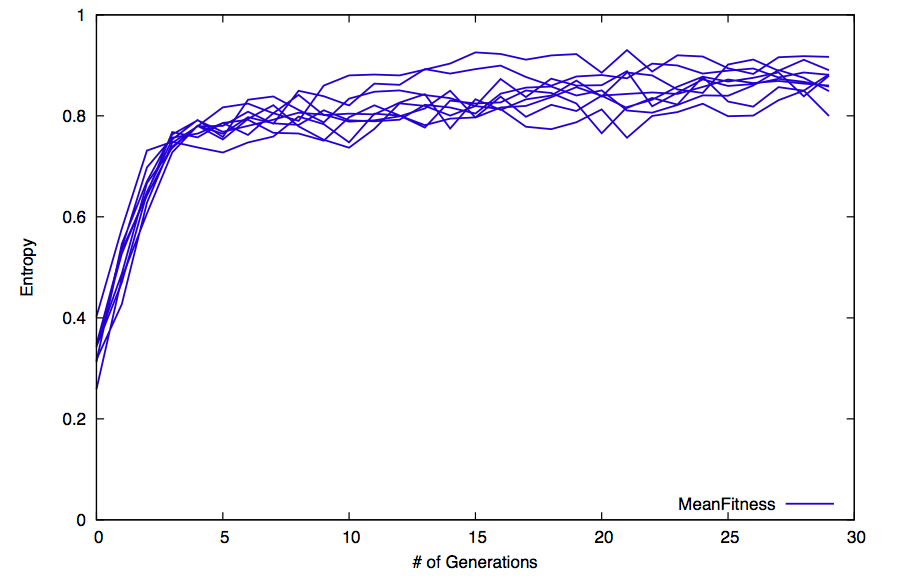
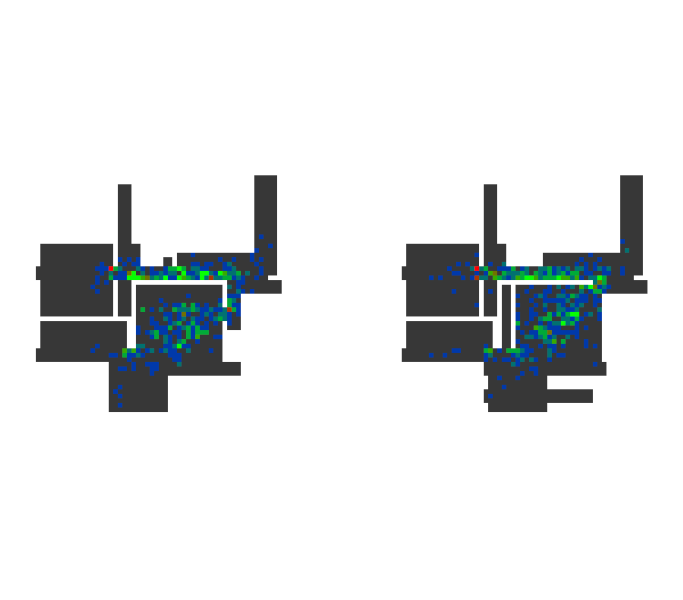
Modified Thesis fileds

diff --git a/index.html b/index.html
@@ -374,7 +374,13 @@ Here below you can find the trailer (A sort of developer diary) and the playable
 							<div class='outerVerticalCentered'>
 								<div class='innerVerticalCentered'>
 									<p>
-										Match balancing is one of the most important design issues in the development of an adversarial multiplayer shooter. Therefore, matchmaking algorithms are generally used to build teams, such that players can have fun with each other and enjoy the game experience. In this work we approach this problem from a completely different angle: we show that the design of the game content has a large impact on the match balancing and that procedural content generation might be a promising approach to improve it. In particular, we present a methodology to evolve maps for Cube 2: Saubertran, an open source first person shooter, and to improve the game balancing for specific combinations of players skills and strategies. We tested our approach on three different scenarios that involve players with different skill levels as well as players using completely different weapons. Our results are very promising and show that, in all the scenarios considered, our approach is able to evolve maps that result in a balanced game experience.
+Match balancing is one of the most important design issues in the development of a competitive multiplayer shooter.
+In this thesis we approach this issue creating maps aimed to balance differents player skills and strategies.
+Our maps are generated using genetics algorithms with a simulation-based fitness function. This fitness function evaluates results gained from matches played by 2 bots (with different skills/strategies) on the generated map.
+At the end, we shown that it's possible, using the procedural content generation, create maps that balance the different player skills/strategies.
+</p>
+<p>
+Here below you can find my thesis (Italian only). Soon will be available our paper submitted for this year edition (2014) of <a href='http://www.cig2014.de/doku.php'>CIG</a>.
 									</p>
 									<div style='padding-top:10px'>
 											<div style='float:left; width:100%'>

diff --git a/Code/variables.js b/Code/variables.js
@@ -33,7 +33,7 @@ var IMAGES_SRC_QTM = [ ];
 
 var IMAGES_SRC_THS = ["Resources/Thesis/0.png","Resources/Thesis/1.png","Resources/Thesis/2.png",
 								"Resources/Thesis/3.png", "Resources/Thesis/4.png", "Resources/Thesis/5.png", 
-								"Resources/Thesis/6.png", "Resources/Thesis/7.png"];
+								"Resources/Thesis/6.png", "Resources/Thesis/7.png", "Resources/Thesis/8.png"];
 
 
 
@@ -48,9 +48,10 @@ var HEADERS_SMB = ["Game poster", "Gameplay 1: Robot in normal (green) mood", "G
 var HEADERS_QTM = [ ];
 var HEADERS_THS = ["Mean Entropy over generations. Bot1: Low skill, Sniper Rifle. Bot2: Hight skill, Chainsaw",
 					"Best map Evolution over generation (1). Bot1: Low skill, Sniper Rifle. Bot2: Hight skill, Chainsaw",
-					"Heatmap of the positions where Bot1 kills the most (Red:most number of kill, blue:lower)",
+					"Heatmap of the positions where Bot1 kills the most (Red:most number of kills, blue:lower)",
 					"Best map Evolution over generation (2). Bot1: Low skill, Sniper Rifle. Bot2: Hight skill, Chainsaw",
-					"Heatmap of the positions where Bot2 dies the most (Red:most number of death, blue:lower)",
+					"Heatmap of the positions where Bot2 dies the most (Red:most number of deaths, blue:lower)",
+					"Heatmap of the positions where Bot1 kills the most (Red:most number of kills, blue:lower)",
 					"Mean Entropy over generations. Bot1: Hight skill, Sniper Rifle. Bot2: Low skill, GranateLauncher",
 					"Best map Evolution over generation. Bot1: Hight skill, Sniper Rifle. Bot2: Low skill, GranateLauncher",
-					"Heatmap of the positions where Bot1 kills the most (Red:most number of kill, blue:lower)"];
+					"Heatmap of the positions where Bot1 kills the most (Red:most number of kills, blue:lower)"];
